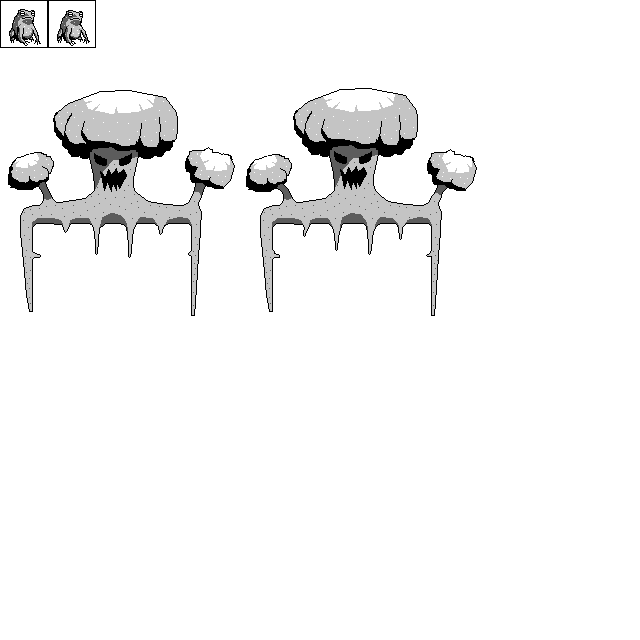
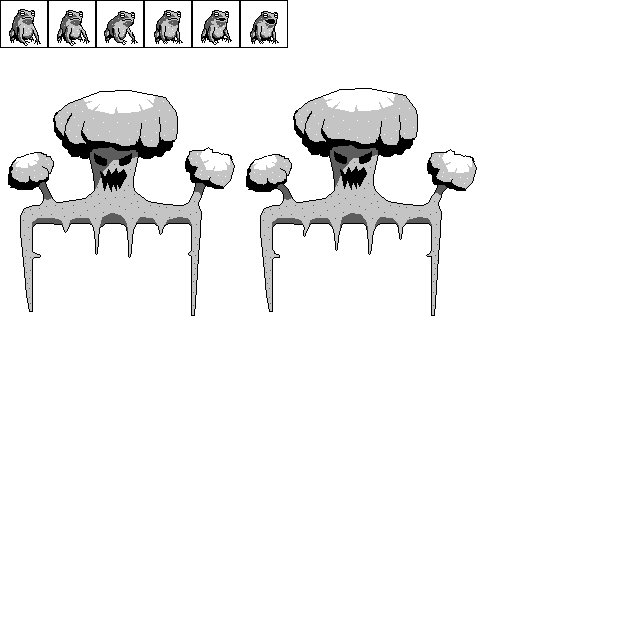
drew frog

Changed region(s): [[0.1562, 0.0, 0.4375, 0.0938]]

diff --git a/src/worldgen/zones.py b/src/worldgen/zones.py
@@ -8,6 +8,7 @@ import src.world.entities as entities
 import src.game.spriteref as spriteref
 import src.game.npc as npc
 import src.game.events as events
+from src.game.updatable import Updateable
 import src.game.dialog as dialog
 
 _ALL_ZONES = {}
@@ -280,6 +281,13 @@ class DesolateCaveZone(Zone):
         dialog_box = entities.DialogTriggerBox(intro_dial, grid_xy, grid_size=grid_size, just_once=True)
 
         w.add(dialog_box)
+
+        def update_lambda(_world, _gs, _input_state, _render_engine):
+            pass
+
+        z_updater = Updateable()
+        z_updater.update = update_lambda
+        gs.add_zone_updater(z_updater)
 
         return w
 

diff --git a/src/game/updatable.py b/src/game/updatable.py
@@ -3,3 +3,12 @@ class Updateable:
 
     def update(self, world, gs, input_state, render_engine):
         pass
+
+
+class Updater(Updateable):
+
+    def __init__(self, update_lambda):
+        self.update_lambda = update_lambda
+
+    def update(self, world, gs, input_state, render_engine):
+        self.update_lambda(world, gs, input_state, render_engine)

diff --git a/README.md b/README.md
@@ -3,6 +3,8 @@ babby's first ~~roguelike~~ action rpg
 
 here are the five most recent gifs committed:
 
+![61_frog_boss.gif](gifs/61_frog_boss.gif?raw=true "61_frog_boss")
+
 ![60_cutscenes.gif](gifs/60_cutscenes.gif?raw=true "60_cutscenes")
 
 ![59_intro_building.gif](gifs/59_intro_building.gif?raw=true "59_intro_building")
@@ -10,6 +12,4 @@ here are the five most recent gifs committed:
 ![58_decoration_flavor_text.gif](gifs/58_decoration_flavor_text.gif?raw=true "58_decoration_flavor_text")
 
 ![57_wall_mushrooms.gif](gifs/57_wall_mushrooms.gif?raw=true "57_wall_mushrooms")
-
-![56_floaty_text.gif](gifs/56_floaty_text.gif?raw=true "56_floaty_text")
 
